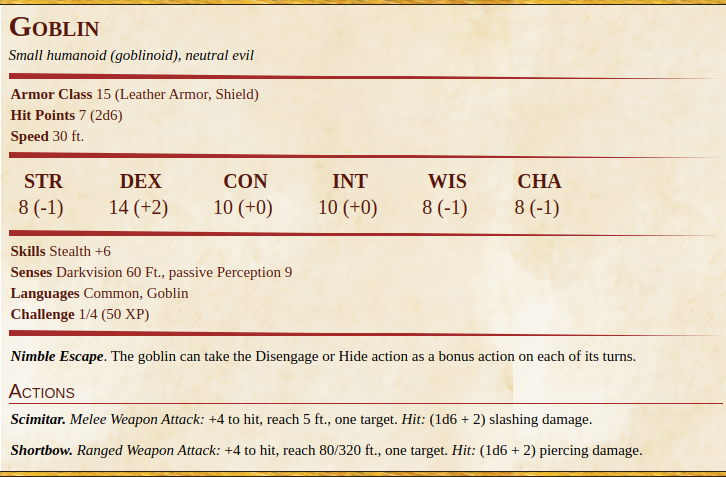
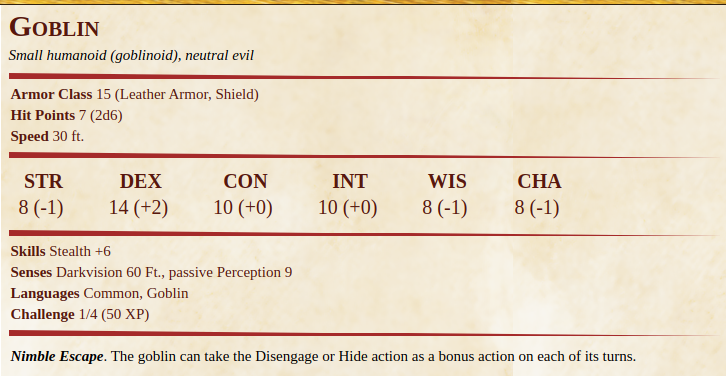
added action frame

Changed region(s): [[0.0, 0.0, 1.0, 1.0], [0.5758, 0.5266, 0.6667, 0.5851], [0.9091, 0.4681, 0.9394, 0.4973]]

diff --git a/docs/index.html b/docs/index.html
@@ -140,6 +140,20 @@
                     </table>
                 </div>
             </div>
+            <div class="action"> <!--Filled with placeholder info for prototype-->
+                <table>
+                    <tr>
+                        <td><p>Initiative Roll: 8</p></td>
+                        <td><p>Initiative Roll: 17</p></td>
+                        <td><p>Initiative Roll: 3</p></td>
+                    </tr>
+                    <tr>
+                        <td><img class="action" src="../prototype-images/goblin_action.png"></td>
+                        <td><img class="action" src="../prototype-images/goblin_action.png"></td>
+                        <td><img class="action" src="../prototype-images/hobgoblin_action.png"></td>
+                    </tr>
+                </table>
+            </div>
             <div class="music">
                 <h5>Music Player Here!</h5>
             </div>

diff --git a/docs/main.css b/docs/main.css
@@ -33,8 +33,20 @@ img.monster {
     margin: 10px;
 }
 
+div.action {
+    border-style: inset;
+    width: 85%;
+    float: right;
+}
+
+img.action {
+    height: 100px;
+    width: 500px;
+    margin: 10px;
+}
+
 div.music {
     border-style: inset;
-    width: 15%;
+    width: 20%;
     float: right;
 }
